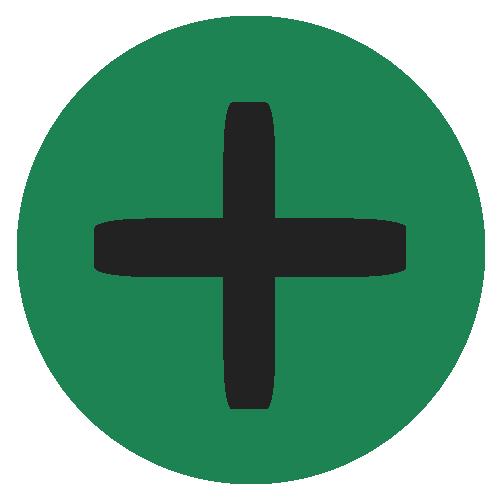
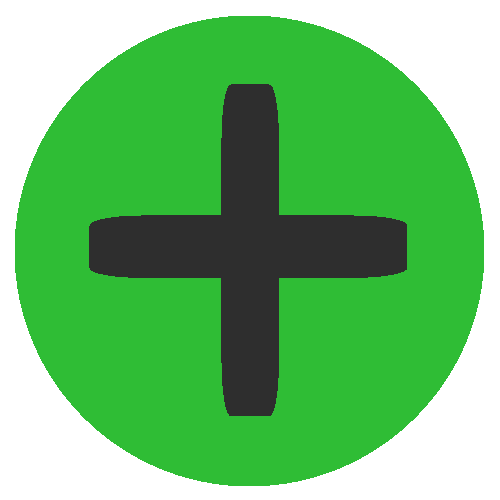
more colour change

diff --git a/app/LooseTheLeftovers_Frontend/src/common/global_styles.tsx b/app/LooseTheLeftovers_Frontend/src/common/global_styles.tsx
@@ -9,7 +9,7 @@ export const global = {
 
   //darkmode
   // primary: '#2CAF55',
-  primary: '#2CBD51',
+  primary: '#2FC956',
   purple: '#251D3A',
   //purple: '#2E0C22',
   secondary: '#FFFFFF', //white
@@ -40,15 +40,10 @@ export const global = {
 
   //post color [original, lighter, even lighter]
   post_color: {
-    // expiry_short: ['#6B142D', '#BB3D60', '#E97D8A'],
-    //expiry_mid: ['#251D3A', '#624E95', '#DFBDE1'],
-    //expiry_long: ['#0F5A44', '#1D8352', '#73E485'],
+    expiry_short: ['#2e2e2e', '#E0495A', '#E07581'],
 
-    expiry_short: ['#2e2e2e', '#E05A73', '#E996A9'],
-    //expiry_short: ['#2e2e2e', '#F96F58', '#FF9685'],
-    expiry_mid: ['#2e2e2e', '#FFB027', '#FFC8AA'], //yellow
-    //expiry_long: ['#2e2e2e', '#BB3D60', '#E97D8A'],
-    // expiry_mid: ['#2e2e2e', '#624E95', '#DFBDE1'],
-    expiry_long: ['#2e2e2e', '#1D8352', '#A6E4AF'],
+    expiry_mid: ['#2e2e2e', '#FFB72E', '#FFC8AA'], //yellow
+
+    expiry_long: ['#2e2e2e', '#2FBD35', '#A6E4AF'],
   },
 };
